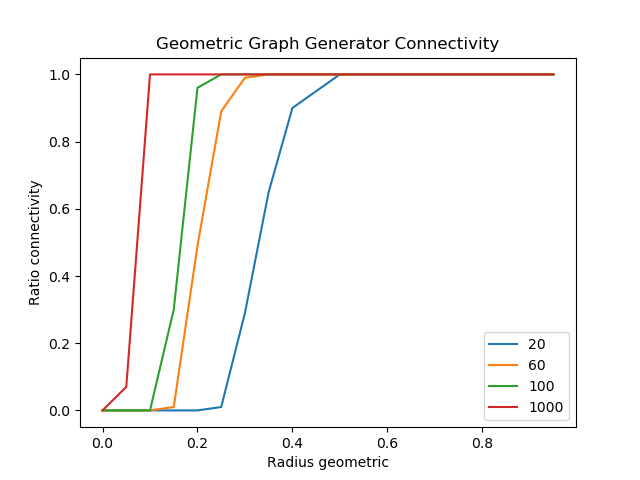
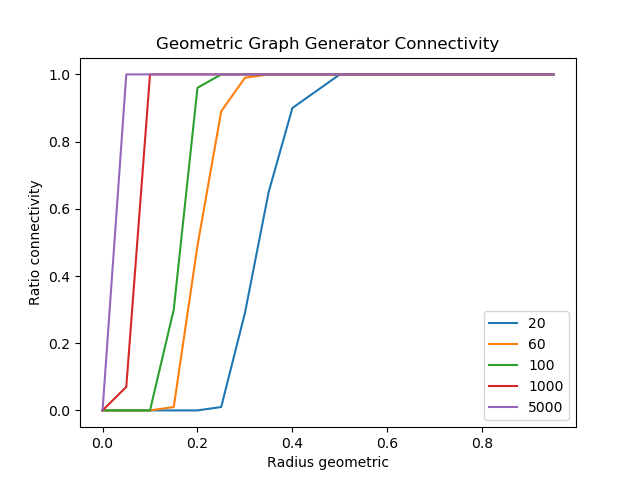
Done

diff --git a/Connectivity/tratarResultGeometric.py b/Connectivity/tratarResultGeometric.py
@@ -8,12 +8,12 @@ grafo20 = [0,0,0,0,0,0.01,0.29,0.65,0.9,0.95,1,1,1,1,1,1,1,1,1,1]
 grafo60 = [0,0,0,0.01,0.49,0.89,0.99,1,1,1,1,1,1,1,1,1,1,1,1,1]
 grafo100 = [0,0,0,0.3,0.96,1,1,1,1,1,1,1,1,1,1,1,1,1,1,1]
 grafo1000 = [0,0.07,1,1,1,1,1,1,1,1,1,1,1,1,1,1,1,1,1,1]
-grafo5000 = []
+grafo5000 = [0,1,1,1,1,1,1,1,1,1,1,1,1,1,1,1,1,1,1,1]
 plt.plot(xAxis, grafo20, label = "20")
 plt.plot(xAxis, grafo60, label = "60")
 plt.plot(xAxis, grafo100, label = "100")
 plt.plot(xAxis, grafo1000, label = "1000")
-#plt.plot(xAxis, grafo5000, label = "5000")
+plt.plot(xAxis, grafo5000, label = "5000")
 plt.legend()
 plt.title("Geometric Graph Generator Connectivity")
 plt.xlabel("Radius geometric")
